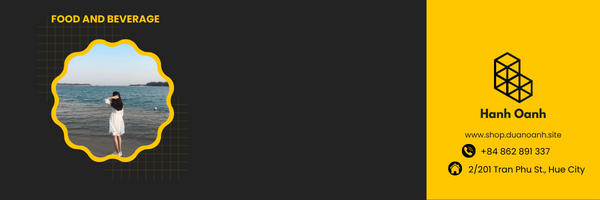
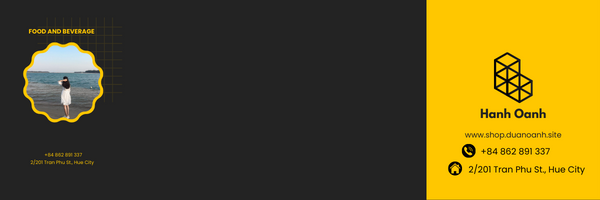
first commit

Changed region(s): [[0.03, 0.06, 0.3, 0.84]]

diff --git a/css/style.css b/css/style.css
@@ -211,38 +211,14 @@ button {
 
 /* banner bg main start */
 
-/* .banner_bg_main {
-    width: auto;
+.banner_bg_main {
+    width: 100%;
     float: left;
     background-image: url(../images/banner-bg.png);
-    height: auto;
+    height: 100%;
     background-size: 100%;
     background-repeat: no-repeat;
-} */
-.banner_bg_main {
-    background-color: transparent;
-    background-image: url(../images/banner-bg.png);
-    background-size: cover;
-    padding-bottom: 10%;
-    padding-top: 10%;
-    padding-left: 5%;
-    padding-right: 5%;
-    object-fit: cover;
-    object-position: center;
 }
-
-@media screen and (min-width: 600px) {
-    .banner_bg_main {
-        background-image: url(../images/banner-bg.png);
-    }
-}
-
-@media screen and (min-width: 1023px) {
-    .banner_bg_main {
-        background-image: url(../images/banner-bg.png);
-    }
-}
-
 
 /* banner bg main end */
 
